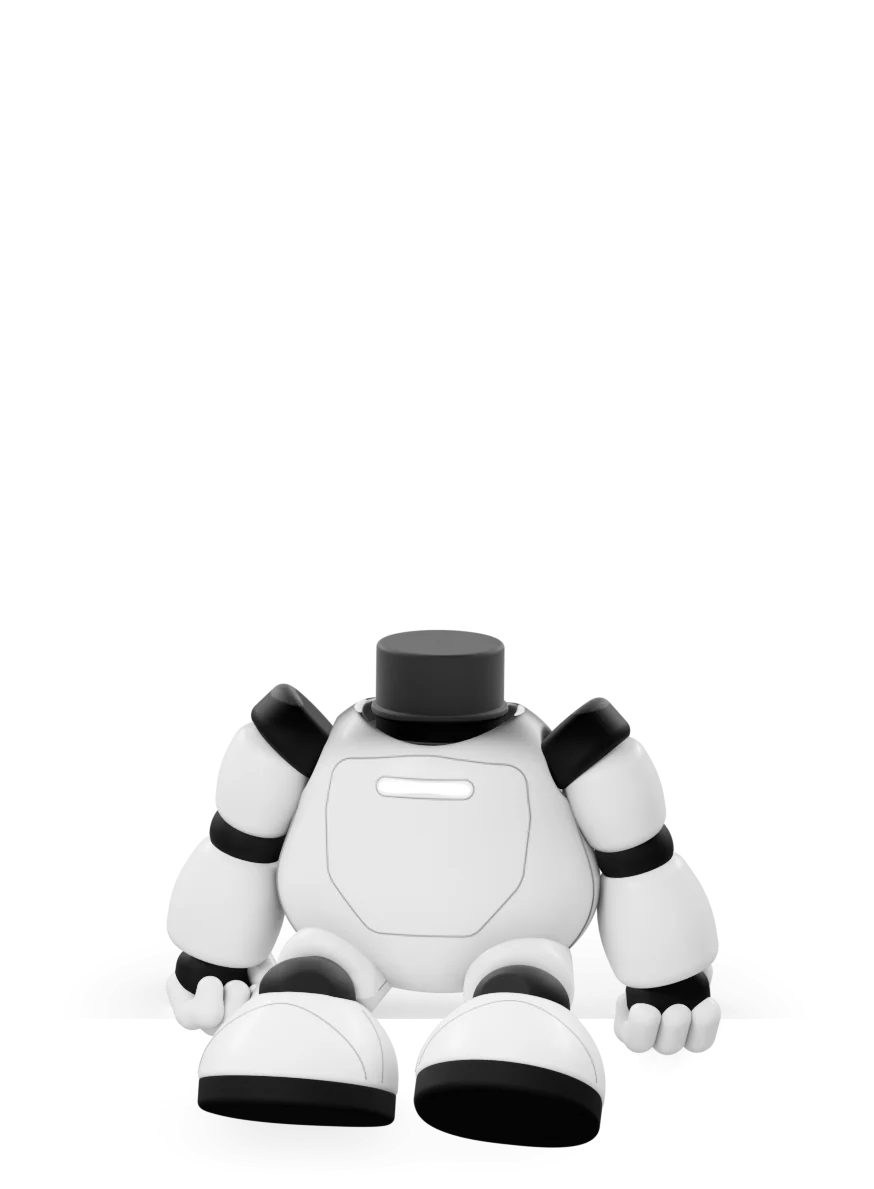
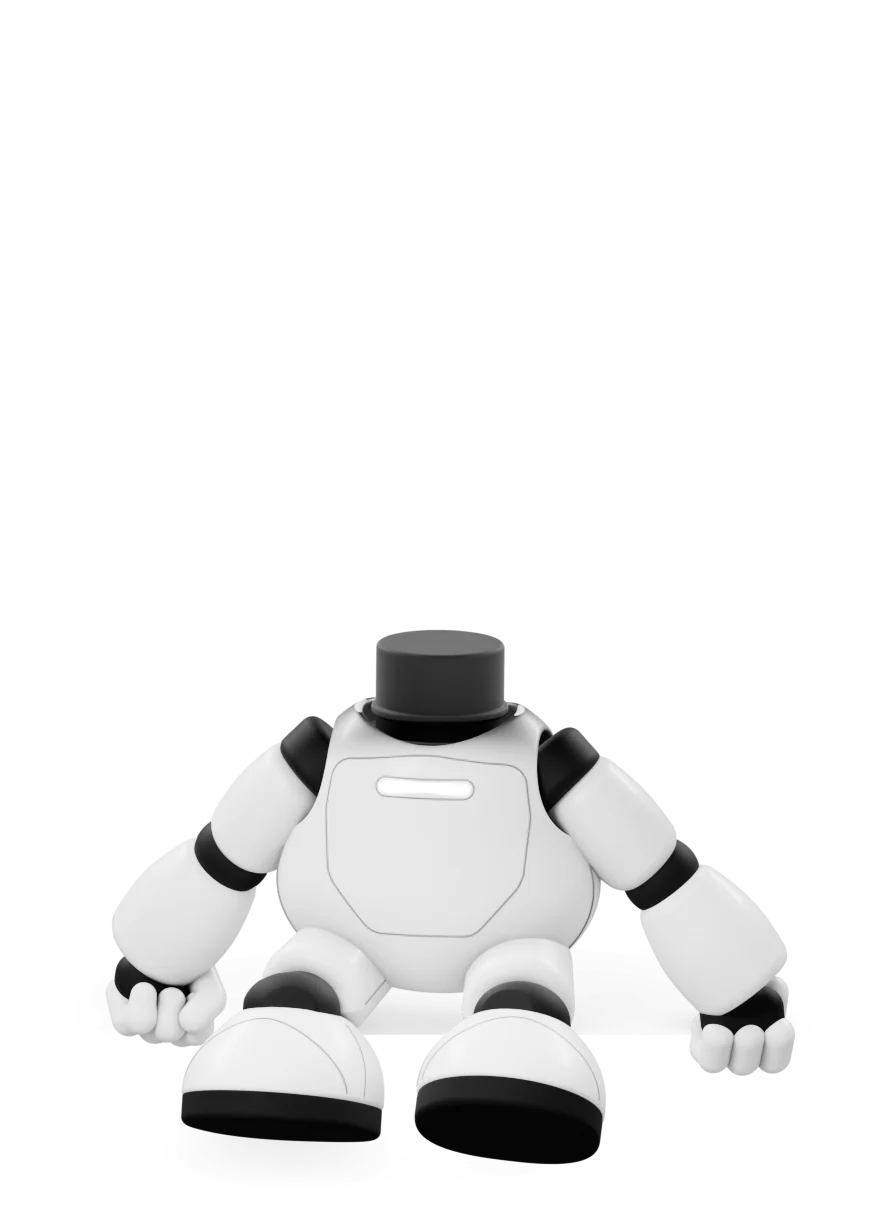
Move Milo's bones to the concept's proportions: shoulders tucked in and lower, longer upper arms and forearms resting their fists further out on the ledge, and knees lowered so his thighs are as tall as the concept's.
The renders are now 874 x 1205, so the figure numbers, the stylesheets that repeat them and the image sizes hints move with them.

diff --git a/src/components/site/Milo.module.css b/src/components/site/Milo.module.css
@@ -1,9 +1,9 @@
 /* Milo and the course line he sits on. The figure is two Blender renders; only his eyes, the line and its ticks are drawn
    here, all in the site's neutrals, with the labs' orange kept for the one tick that's next. */
 
-.figure { position: relative; aspect-ratio: 874 / 1189; pointer-events: none; -webkit-user-select: none; user-select: none; }
+.figure { position: relative; aspect-ratio: 874 / 1205; pointer-events: none; -webkit-user-select: none; user-select: none; }
 .layer { position: absolute; inset: 0; display: block; width: 100%; height: 100%; }
-.head { position: absolute; inset: 0; transform: translate(var(--hx, 0%), var(--hy, 0%)) rotate(var(--tilt, 0deg)); transform-origin: 50.374% 56.138%; }
+.head { position: absolute; inset: 0; transform: translate(var(--hx, 0%), var(--hy, 0%)) rotate(var(--tilt, 0deg)); transform-origin: 50.374% 55.393%; }
 .breath { position: absolute; inset: 0; }
 .eyes { position: absolute; inset: 0; width: 100%; height: 100%; overflow: visible; }
 .gaze { transform: translate(var(--gx, 0px), var(--gy, 0px)); }

diff --git a/src/components/site/MiloHome.tsx b/src/components/site/MiloHome.tsx
@@ -27,8 +27,8 @@ const lessons = (count: number) => `${count} ${count === 1 ? "lesson" : "lessons
 // How much of the figure's width his body takes up at the line, which is what has to stay on the stage.
 // His head is the widest part of him, and it all has to stay on the stage and clear of the words.
 const HEAD_SHARE = 0.42;
-// His width on screen: his height times 874/1189, from the stage's --milo-h on each layout.
-const FIGURE_SIZES = "(min-width: 960px) and (min-height: 600px) min(41vh, 29vw), (max-height: 599px) and (min-width: 640px) min(57vh, 29vw), min(26vh, 65vw, 279px)";
+// His width on screen: his height times 874/1205, from the stage's --milo-h on each layout.
+const FIGURE_SIZES = "(min-width: 960px) and (min-height: 600px) min(41vh, 29vw), (max-height: 599px) and (min-width: 640px) min(57vh, 29vw), min(26vh, 64vw, 276px)";
 
 // When the course line can't run, or without JavaScript, everything below the words lies flat and the chapter list shows.
 const FLAT_PAGE = "[data-home-scene],[data-home-goal],[data-home-bubble]{display:none!important}"

diff --git a/src/components/site/MiloHome.module.css b/src/components/site/MiloHome.module.css
@@ -34,7 +34,7 @@
 .stage {
   --edge: 16px;
   --milo-h: min(36svh, 88vw, 380px);
-  --milo-w: calc(var(--milo-h) * 874 / 1189);
+  --milo-w: calc(var(--milo-h) * 874 / 1205);
   --legs: calc(var(--milo-h) * .16);
   --line-l: var(--edge);
   position: relative;
@@ -52,7 +52,7 @@
 /* Milo, his line, and what he says. --seat-x is where he sits, from the stage's left edge; until the page knows the
    visitor's next lesson, he sits at the first. */
 .scene {
-  --line-y: calc(var(--milo-h) * .8569 + 4px);
+  --line-y: calc(var(--milo-h) * .85881 + 4px);
   position: relative;
   flex: none;
   height: calc(var(--line-y) + var(--legs) + 86px);
@@ -63,7 +63,7 @@
 .parts { top: calc(var(--line-y) + var(--legs) + 10px); left: var(--line-l); right: var(--edge); }
 .seat {
   position: absolute;
-  top: calc(var(--line-y) - var(--milo-h) * .8569);
+  top: calc(var(--line-y) - var(--milo-h) * .85881);
   left: 0;
   z-index: 2;
   width: var(--milo-w);

diff --git a/src/lib/milo-figure.ts b/src/lib/milo-figure.ts
@@ -4,18 +4,18 @@
 
 export const MILO = {
   width: 874,
-  height: 1189,
+  height: 1205,
   /** Width of the smaller layers, for phones. */
   small: 472,
   /** The middle of the seat, on the front edge of the ledge he sits on. */
-  seat: [0.5, 0.8569],
+  seat: [0.5, 0.85881],
   /** His eyes, left then right on the image, as ellipses on his face's screen. */
   eyes: [
-    { x: 0.37922, y: 0.44172, rx: 0.03683, ry: 0.04423 },
-    { x: 0.62826, y: 0.44172, rx: 0.03683, ry: 0.04423 },
+    { x: 0.37922, y: 0.43585, rx: 0.03683, ry: 0.04364 },
+    { x: 0.62826, y: 0.43585, rx: 0.03683, ry: 0.04364 },
   ],
   /** The screen his eyes are drawn on. */
-  display: { x: 0.50374, y: 0.4454, rx: 0.2938, ry: 0.10053 },
+  display: { x: 0.50374, y: 0.43949, rx: 0.2938, ry: 0.0992 },
   /** Where the head turns on the neck. */
-  neck: [0.50374, 0.56138],
+  neck: [0.50374, 0.55393],
 } as const;

diff --git a/src/components/site/CourseNav.module.css b/src/components/site/CourseNav.module.css
@@ -3,9 +3,9 @@
 
 .scene {
   --milo-h: clamp(230px, 30vw, 330px);
-  --milo-w: calc(var(--milo-h) * 874 / 1189);
+  --milo-w: calc(var(--milo-h) * 874 / 1205);
   --legs: calc(var(--milo-h) * .16);
-  --line-y: calc(var(--milo-h) * .8569 + 8px);
+  --line-y: calc(var(--milo-h) * .85881 + 8px);
   position: relative;
   min-width: 0;
   height: calc(var(--line-y) + var(--legs) + 78px);
@@ -15,7 +15,7 @@
 .partsBox { top: calc(var(--line-y) + var(--legs) + 10px); right: 0; left: 0; }
 .seat {
   position: absolute;
-  top: calc(var(--line-y) - var(--milo-h) * .8569);
+  top: calc(var(--line-y) - var(--milo-h) * .85881);
   left: 0;
   z-index: 2;
   width: var(--milo-w);

diff --git a/src/components/site/CourseMap.tsx b/src/components/site/CourseMap.tsx
@@ -163,7 +163,7 @@ function CourseLine(props: CourseNavProps) {
           partsClassName={navStyles.partsBox}
         />
         <div className={navStyles.seat}>
-          <MiloFigure figureRef={figure} className={navStyles.figure} sizes="clamp(169px, 22vw, 243px)" />
+          <MiloFigure figureRef={figure} className={navStyles.figure} sizes="clamp(167px, 22vw, 239px)" />
         </div>
       </div>
 

diff --git a/docs/design-system.md b/docs/design-system.md
@@ -58,8 +58,8 @@ Milo is the site's character: a small robot with a screen for a face, sitting on
 His shape follows the concept art. His head is tall and round, its cheeks curving round his screen, and its crown grows two thick horn-like ears. Each ear curls out at the tip, with a dark crescent along its inner edge. The face is nearly flat across the screen and curves in one smooth sweep out to the cheeks and the crown. Its screen sits in a soft face plate that is part of the head, bounded by a fine grooved seam, with a grooved chin plate below holding the chin light. Short seams split the forehead under a crown line that runs along the ears' bases. His body is a bell-shaped torso with a flush shield on the chest. It has a dark neck in a collar well, dark shoulder joints set into its sides, and rounded arm shells with a dark elbow joint showing between them. His fists are white finger segments over a dark palm, and his short legs have dark knees seated in bell-shaped boots on dark soles. In the light theme he renders white under broad soft light. In the dark theme he is charcoal, with thin rim light tracing his outline. The visor is dark gloss glass, and the chin and chest lights glow.
 
 The sources are in the Milo project (`systemkit-milo`). `Milo-sitting-v2-light.blend` and `Milo-sitting-v2-dark.blend` hold the pose, the ledge as a shadow catcher, and the studio light. The `sitting` folder has the scripts that rebuild them, in order:
-1. `head.py`, `body.py` and `hand.py` build the head, the body and the left fist as signed-distance shapes, meshed with marching cubes (they need numpy and scikit-image). Their numbers are in `head.json`, `body.json` and `hand.json`; `hand.py` also reads the hand bone's frame from `rig.json`, which `rig.py` writes.
-2. `final.sh` puts those meshes on the rig (`shape.py`; `hands.py` mirrors the fist onto the right hand), poses him, applies the studio look from `look-light.json` / `look-dark.json`, and renders both themes' layers.
+1. `head.py`, `body.py` and `hand.py` build the head, the body and the left fist as signed-distance shapes, meshed with marching cubes (they need numpy and scikit-image). Their numbers are in `head.json`, `body.json` and `hand.json`. `body.json`'s `rig` moves the rig's bones to the concept's proportions (longer arms, shoulders tucked in, taller thighs); `rig.py` writes the hand bone's frame after that move to `rig.json`, which `hand.py` reads.
+2. `final.sh` moves the bones and puts those meshes on the rig (`shape.py`; `hands.py` mirrors the fist onto the right hand), poses him, applies the studio look from `look-light.json` / `look-dark.json`, and renders both themes' layers.
 3. `KEEP_W=854 python3 assets.py <out> <repo>` crops the layers into `public/milo` and prints the figure geometry. `KEEP_W` keeps the layers at least as wide as the page was first laid out for. Copy the printed numbers into `src/lib/milo-figure.ts` by hand.
 
 The geometry the page needs from those renders, where his eyes, screen, neck and seat land on the images, is in `src/lib/milo-figure.ts`. Regenerate it with the renders whenever the pose, the camera or his outline changes. The images' aspect ratio, seat and neck are also written into `Milo.module.css`, `MiloHome.module.css` and `CourseNav.module.css`. The images' `sizes` hints in `MiloHome.tsx` and `CourseMap.tsx` are his height on each layout times that aspect ratio. Tests check all of these agree with `milo-figure.ts`.
